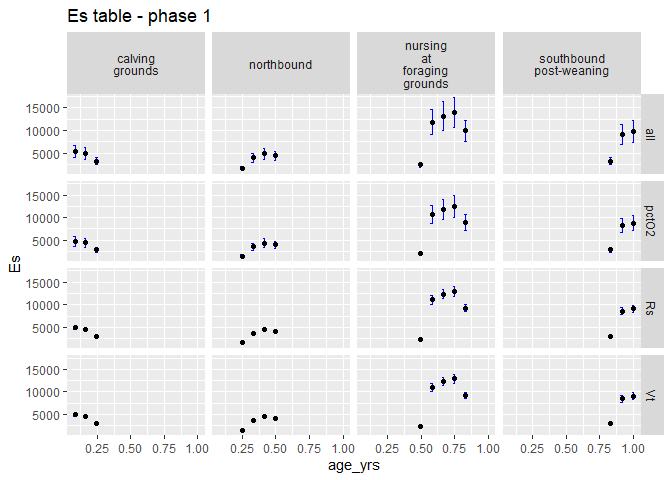
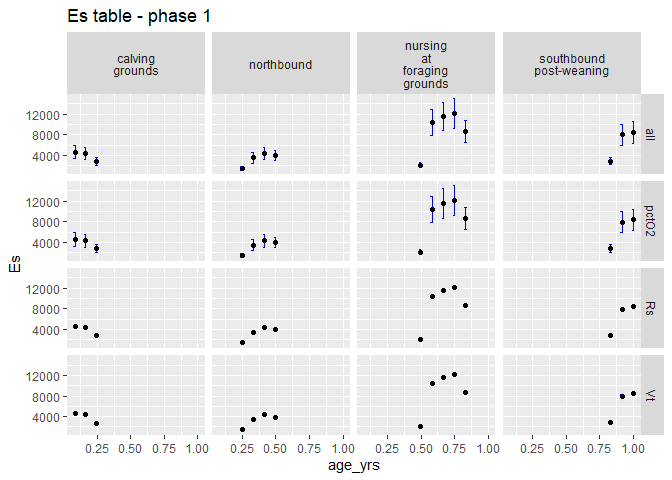
es sens analysis phase 1 - knit mc reps 10000

diff --git a/Es/Es_sensanalysis_source_phase1.md b/Es/Es_sensanalysis_source_phase1.md
@@ -1,7 +1,7 @@
 Energy Expenditure (Es) Sensitivity Analysis - Phase 1
 ================
 Selina Agbayani
-02 March 2022 - code updated on 21 July, 2025
+02 March 2022 - code updated on 27 July, 2025
 
 NOTE - this code will run for a long time.
 
@@ -204,7 +204,7 @@ Es_sensAnalysis_phase1 <-
 #Original code was run with MC_reps <- 10000  and took a very long time
 #To test and explore the code, use less reps 
 
-MC_reps = 10
+MC_reps = 10000
 
 for (a in seq(from = 1, to = 12, by = 1)){
   for (MC_var in c("all","Rs", "Vt", "pctO2")){
@@ -407,12 +407,12 @@ kable(head(Es_sensAnalysis_phase1))
 
 | age_yrs | Lifestage | Activity_stages | no_days | MC_variable | mean_bpm | se_bpm | mean_bpd | Vt_mean | Vt_sd | Es_perday | Es_perday_sd | Es_perday_quant025 | Es_perday_quant975 | Es | Es_sd | Es_quant025 | Es_quant975 |
 |---:|:---|:---|---:|:---|---:|---:|---:|---:|---:|---:|---:|---:|---:|---:|---:|---:|---:|
-| 0.0849315 | Calf | calving grounds | 31 | all | 2.277219 | 0.1757597 | 3279.195 | 22.94043 | 0.5914895 | 171.7375 | 44.84944 | 116.08858 | 242.7348 | 5323.862 | 1390.3325 | 3598.746 | 7524.778 |
-| 0.0849315 | Calf | calving grounds | 31 | Rs | 2.277219 | 0.1757597 | 3279.195 | 23.03707 | 0.0000000 | 158.6404 | 12.24414 | 144.29550 | 179.0346 | 4917.853 | 379.5683 | 4473.161 | 5550.073 |
-| 0.0849315 | Calf | calving grounds | 31 | Vt | 2.277219 | 0.1757597 | 3279.195 | 22.94043 | 0.5914895 | 157.8752 | 11.40040 | 145.35558 | 177.2158 | 4894.131 | 353.4123 | 4506.023 | 5493.691 |
-| 0.0849315 | Calf | calving grounds | 31 | pctO2 | 2.277219 | 0.1757597 | 3279.195 | 23.03707 | 0.0000000 | 151.7120 | 33.94849 | 84.69622 | 187.1882 | 4703.071 | 1052.4033 | 2625.583 | 5802.834 |
-| 0.1616438 | Calf | calving grounds | 28 | all | 1.670668 | 0.1411204 | 2405.762 | 32.61090 | 0.8866647 | 179.1788 | 47.53298 | 120.67933 | 253.5926 | 5017.007 | 1330.9235 | 3379.021 | 7100.592 |
-| 0.1616438 | Calf | calving grounds | 28 | Rs | 1.670668 | 0.1411204 | 2405.762 | 32.75577 | 0.0000000 | 165.4854 | 13.97847 | 148.99913 | 188.7100 | 4633.592 | 391.3971 | 4171.976 | 5283.879 |
+| 0.0849315 | Calf | calving grounds | 31 | all | 2.139991 | 0.0050110 | 3081.587 | 22.95101 | 0.5847316 | 148.4422 | 42.1294030 | 68.16864 | 231.5142 | 4601.708 | 1306.01149 | 2113.228 | 7176.939 |
+| 0.0849315 | Calf | calving grounds | 31 | Rs | 2.139991 | 0.0050110 | 3081.587 | 22.95142 | 0.0000000 | 148.5262 | 0.3477870 | 147.83541 | 149.2173 | 4604.314 | 10.78140 | 4582.898 | 4625.736 |
+| 0.0849315 | Calf | calving grounds | 31 | Vt | 2.139991 | 0.0050110 | 3081.587 | 22.95101 | 0.5847316 | 148.5236 | 3.7998712 | 140.99256 | 155.9472 | 4604.233 | 117.79601 | 4370.769 | 4834.363 |
+| 0.0849315 | Calf | calving grounds | 31 | pctO2 | 2.139991 | 0.0050110 | 3081.587 | 22.95142 | 0.0000000 | 148.4969 | 42.4312801 | 64.06514 | 231.6992 | 4603.405 | 1315.36968 | 1986.019 | 7182.676 |
+| 0.1616438 | Calf | calving grounds | 28 | all | 1.559994 | 0.0040089 | 2246.391 | 32.98501 | 0.8901977 | 155.5199 | 44.1658368 | 71.16298 | 242.7532 | 4354.556 | 1236.64343 | 1992.563 | 6797.090 |
+| 0.1616438 | Calf | calving grounds | 28 | Rs | 1.559994 | 0.0040089 | 2246.391 | 32.98563 | 0.0000000 | 155.6071 | 0.3998796 | 154.81333 | 156.4012 | 4356.999 | 11.19663 | 4334.773 | 4379.234 |
 
 ``` r
 #save Es_sensAnalysis_phase1 table
@@ -487,12 +487,12 @@ kable(head(Es_sensAnalysis_phase1_permth))
 
 | age_yrs | age_mth | Lifestage | no_days | MC_variable | Es | Es_sd | Es_perday | Es_perday_sd |
 |---:|---:|:---|---:|:---|---:|---:|---:|---:|
-| 0.0849315 | 1 | Calf | 31 | all | 5323.862 | 1390.3325 | 171.7375 | 44.84944 |
-| 0.0849315 | 1 | Calf | 31 | Rs | 4917.853 | 379.5683 | 158.6404 | 12.24414 |
-| 0.0849315 | 1 | Calf | 31 | Vt | 4894.131 | 353.4123 | 157.8752 | 11.40040 |
-| 0.0849315 | 1 | Calf | 31 | pctO2 | 4703.071 | 1052.4033 | 151.7120 | 33.94849 |
-| 0.1616438 | 2 | Calf | 28 | all | 5017.007 | 1330.9235 | 179.1788 | 47.53298 |
-| 0.1616438 | 2 | Calf | 28 | Rs | 4633.592 | 391.3971 | 165.4854 | 13.97847 |
+| 0.0849315 | 1 | Calf | 31 | all | 4601.708 | 1306.01149 | 148.4422 | 42.1294030 |
+| 0.0849315 | 1 | Calf | 31 | Rs | 4604.314 | 10.78140 | 148.5262 | 0.3477870 |
+| 0.0849315 | 1 | Calf | 31 | Vt | 4604.233 | 117.79601 | 148.5236 | 3.7998712 |
+| 0.0849315 | 1 | Calf | 31 | pctO2 | 4603.405 | 1315.36968 | 148.4969 | 42.4312801 |
+| 0.1616438 | 2 | Calf | 28 | all | 4354.556 | 1236.64343 | 155.5199 | 44.1658368 |
+| 0.1616438 | 2 | Calf | 28 | Rs | 4356.999 | 11.19663 | 155.6071 | 0.3998796 |
 
 ``` r
 Es_sensAnalysis_phase1_permth %>% write_csv("data/Es_sensAnalysis_phase1_permth_source_bpm.csv", na = "", append = FALSE)
